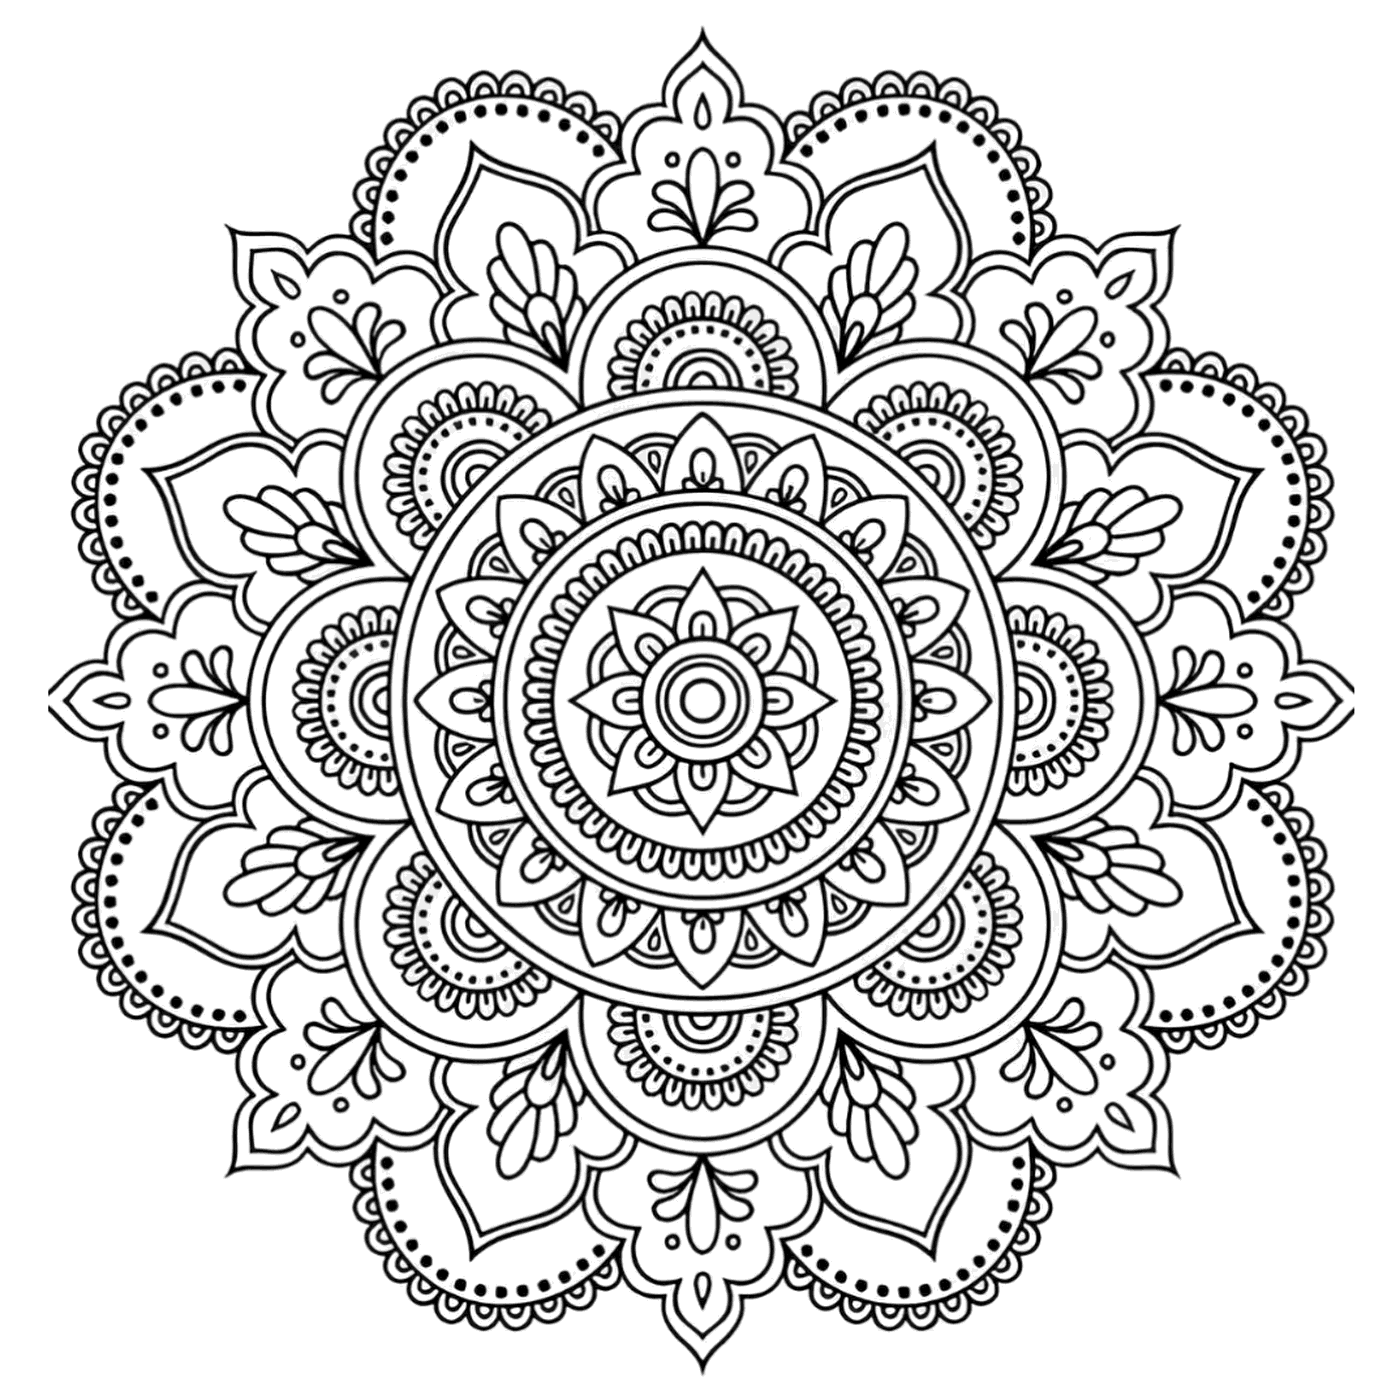
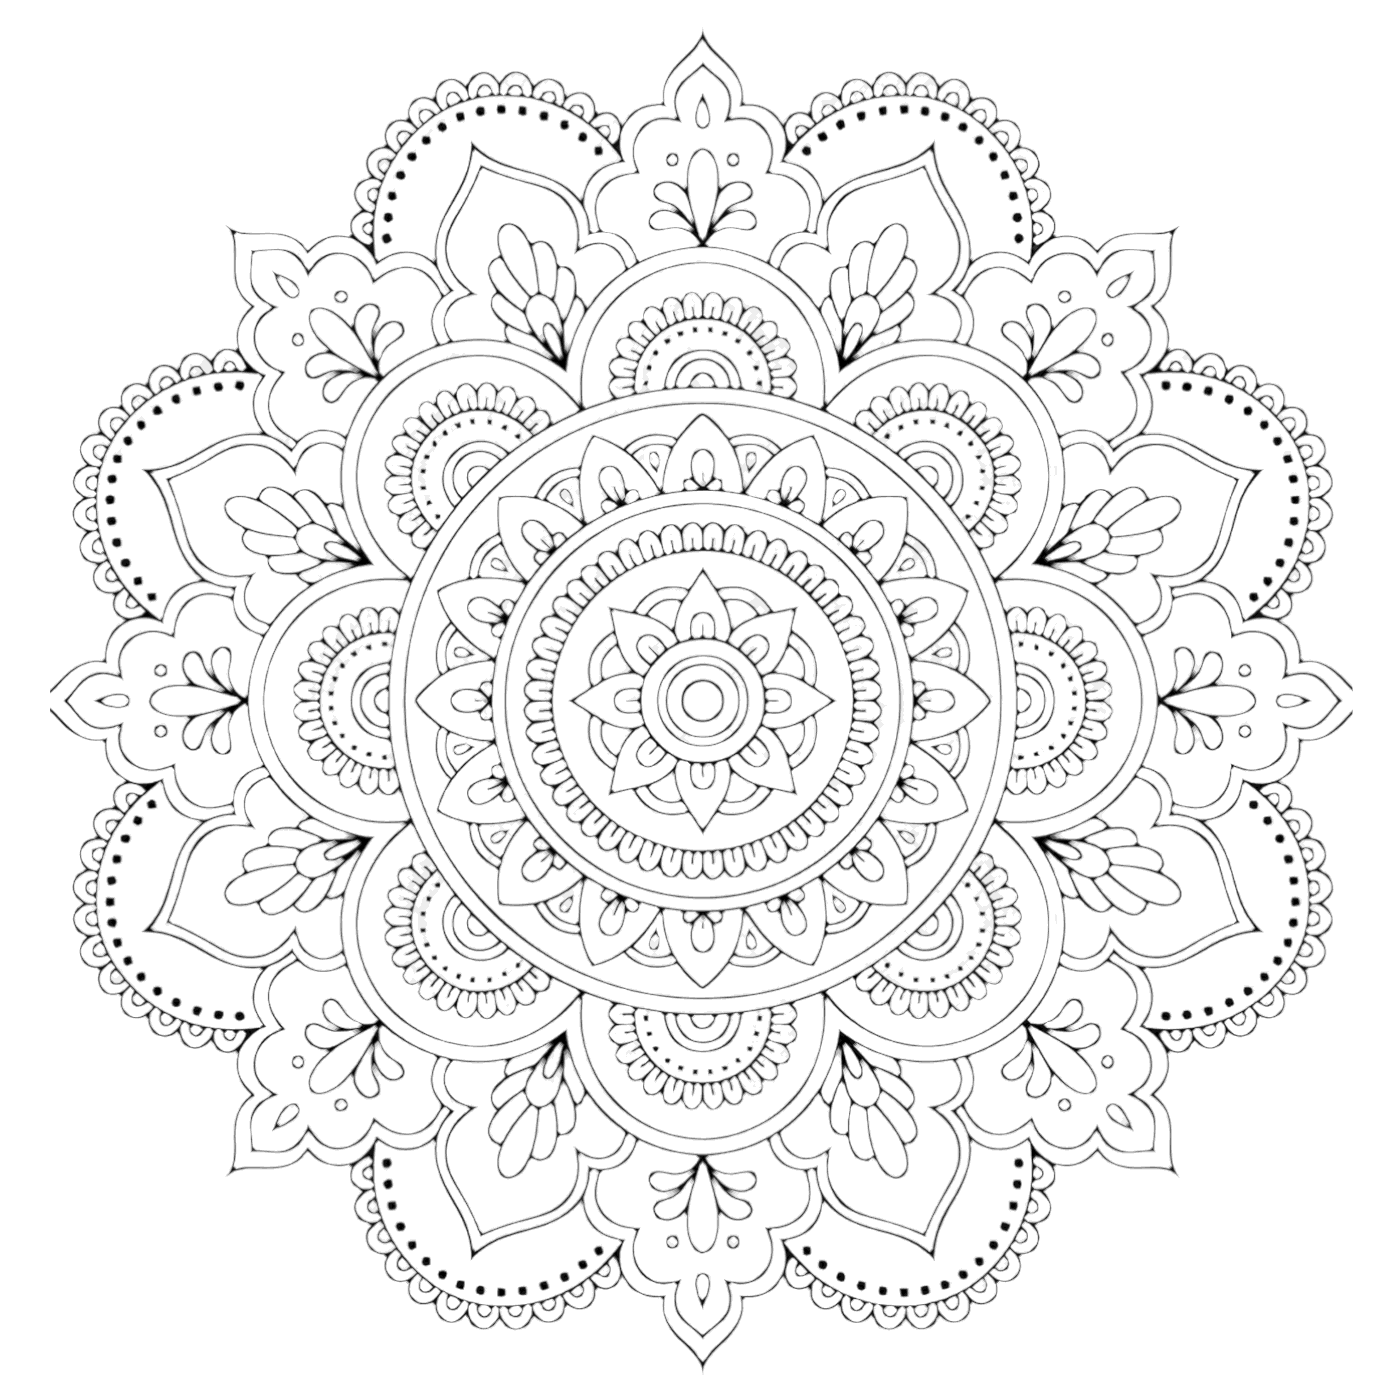
Thin and fade the mandala lines, shrink the corner footprint
Erode the traced line art to a hairline weight, drop opacity so it reads
as background ornamentation instead of bold foreground linework, and
shrink the corner size (200vh -> 130vh container) per feedback that it
was too big and too thick.

Claude-Session: https://claude.ai/code/session_01RothmWQTfqVnbe1mEQqDxE

Changed region(s): [[0.0307, 0.0307, 0.9829, 0.9829]]

diff --git a/assets/css/site.css b/assets/css/site.css
@@ -36,8 +36,8 @@ body:not(.paint-shell) {
    mask guarantees both corners render pixel-identical. */
 .mandala-corner {
   position: fixed;
-  width: 200vh;
-  height: 200vh;
+  width: 130vh;
+  height: 130vh;
   pointer-events: none;
   z-index: 0;
   background: linear-gradient(135deg, #f58220 0%, #ffd23f 100%);
@@ -47,13 +47,13 @@ body:not(.paint-shell) {
   mask-repeat: no-repeat;
   -webkit-mask-size: 100% 100%;
   mask-size: 100% 100%;
-  opacity: 0.62;
+  opacity: 0.36;
   clip-path: circle(9% at 50% 50%);
   animation: mandala-grow 90s cubic-bezier(0.42, 0, 0.58, 1) forwards;
 }
 
 [data-theme="dark"] .mandala-corner {
-  opacity: 0.8;
+  opacity: 0.5;
 }
 
 .mandala-corner--bl {
